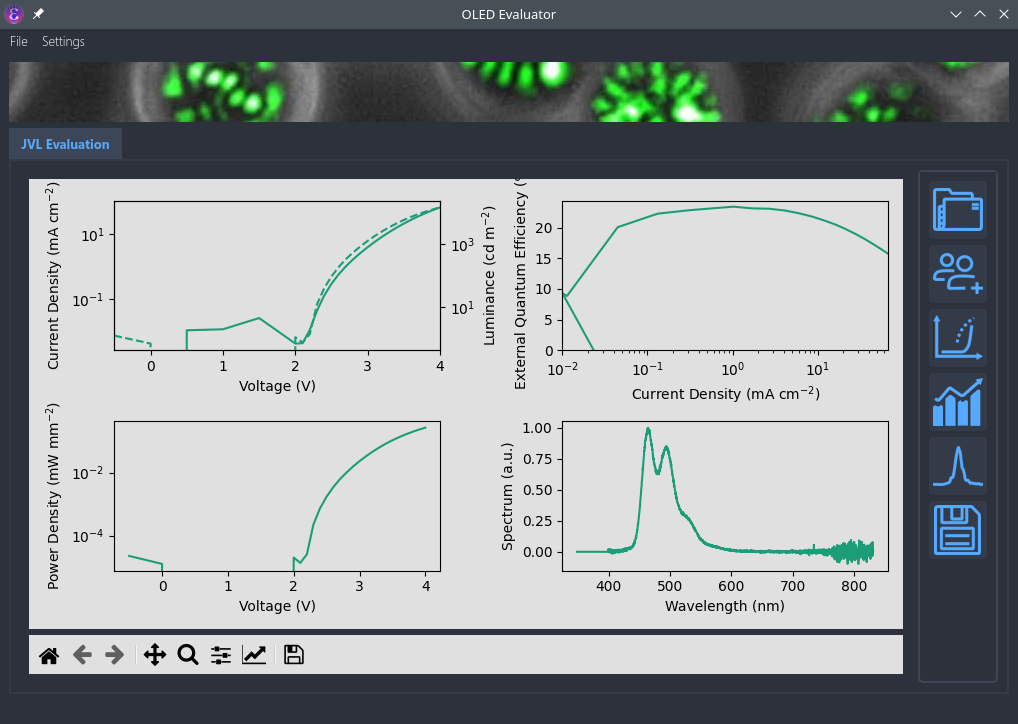
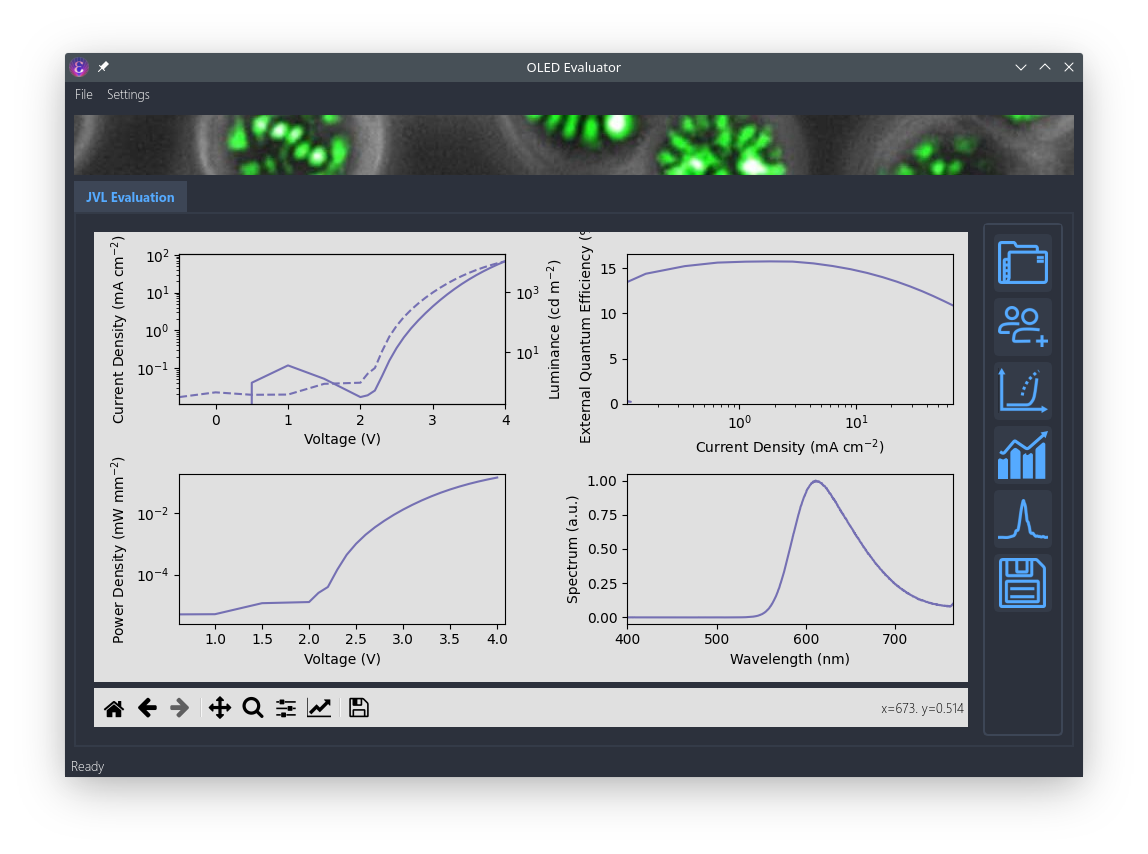
[readme] Update readme images, remove file option in menubar

diff --git a/src/UI_main_window.py b/src/UI_main_window.py
@@ -638,8 +638,8 @@ class Ui_MainWindow(object):
         self.menubar = QtWidgets.QMenuBar(MainWindow)
         self.menubar.setGeometry(QtCore.QRect(0, 0, 973, 31))
         self.menubar.setObjectName("menubar")
-        self.menudfg = QtWidgets.QMenu(self.menubar)
-        self.menudfg.setObjectName("menudfg")
+        # self.menudfg = QtWidgets.QMenu(self.menubar)
+        # self.menudfg.setObjectName("menudfg")
         self.menuSettings = QtWidgets.QMenu(self.menubar)
         self.menuSettings.setObjectName("menuSettings")
         MainWindow.setMenuBar(self.menubar)
@@ -671,12 +671,12 @@ class Ui_MainWindow(object):
         )
         self.actionOpen_Log = QtWidgets.QAction(MainWindow)
         self.actionOpen_Log.setObjectName("actionOpen_Log")
-        self.menudfg.addAction(self.actionLoad_Measurement_Parameters)
-        self.menudfg.addAction(self.actionSave_Measurement_Parameters)
+        # self.menudfg.addAction(self.actionLoad_Measurement_Parameters)
+        # self.menudfg.addAction(self.actionSave_Measurement_Parameters)
         self.menuSettings.addAction(self.actionOptions)
         self.menuSettings.addAction(self.actionDocumentation)
         self.menuSettings.addAction(self.actionOpen_Log)
-        self.menubar.addAction(self.menudfg.menuAction())
+        # self.menubar.addAction(self.menudfg.menuAction())
         self.menubar.addAction(self.menuSettings.menuAction())
 
         # -------------------------------------------------------------------- #
@@ -827,7 +827,7 @@ class Ui_MainWindow(object):
             _translate("MainWindow", "JVL Evaluation"),
         )
 
-        self.menudfg.setTitle(_translate("MainWindow", "File"))
+        # self.menudfg.setTitle(_translate("MainWindow", "File"))
         self.menuSettings.setTitle(_translate("MainWindow", "Settings"))
 
         # self.actionOpen_Logs.setText(_translate("MainWindow", "Open Logs"))

diff --git a/src/main.py b/src/main.py
@@ -1267,7 +1267,8 @@ class MainWindow(QtWidgets.QMainWindow, Ui_MainWindow):
 
     def save_evaluated_data(self):
         """
-        Function that saves the evaluated data to files
+        Function that saves the evaluated data to files (jvl data, spectral
+        data and overview file to recover state of software)
         """
         unmasked_data = self.data_df.loc[self.data_df["masked"] == False].join(
             self.files_df.loc[:, ["scan_number", "pixel_number"]]
